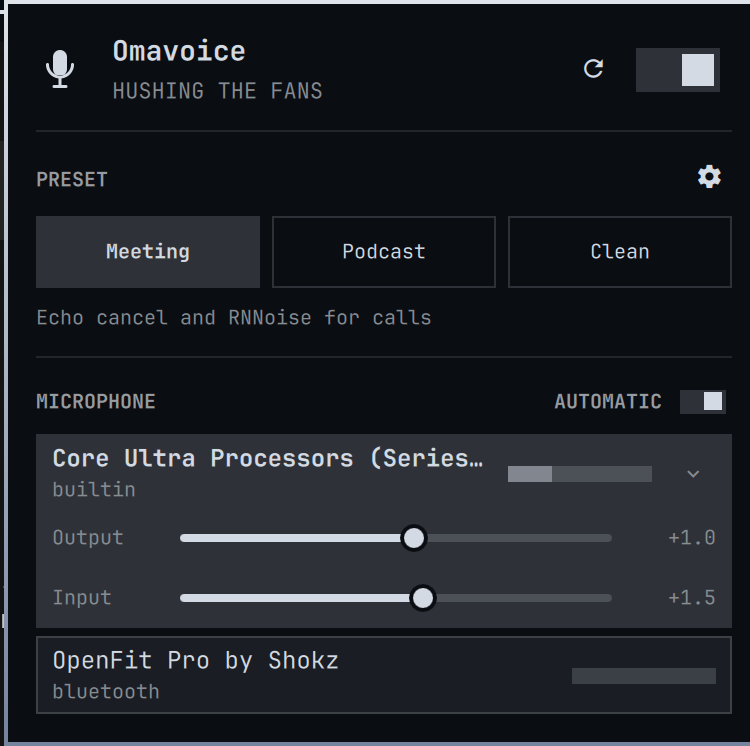
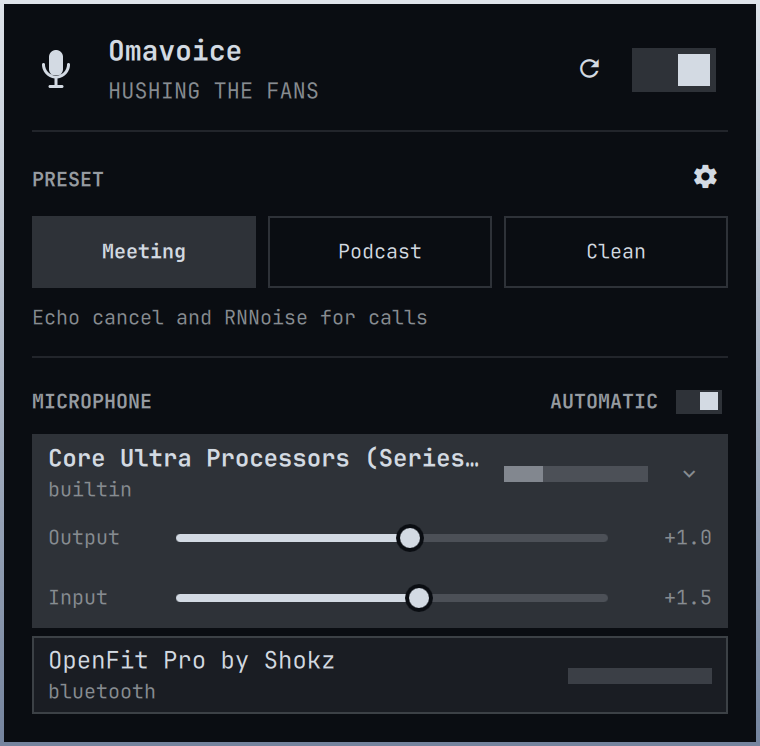
Tell the truth about meters, Voice looks, and the AEC sink.

diff --git a/README.md b/README.md
@@ -17,8 +17,8 @@
 </p>
 
 <p align="center">
-  <img src="preview.png" alt="Omavoice panel: Meeting, Podcast, Clean, Level on the selected mic" width="380">
-  <img src="docs/preview-tune.png" alt="Preset tuning: engine picker, Softer / Balanced / Stronger" width="380">
+  <img src="preview.png" alt="Omavoice panel: Meeting, Podcast, Clean, Output and Input on the selected mic" width="380">
+  <img src="docs/preview-tune.png" alt="Preset tuning: engine picker, Voice looks, Body / Presence / Air, Softer / Balanced / Stronger" width="380">
 </p>
 
 Pick **Omavoice** in Zoom, Google Meet, OBS, or a browser. The plugin sits under those apps as a PipeWire source, so you do not configure each one. USB mics attach themselves when you plug them in.
@@ -35,7 +35,7 @@ An independent [MIT](LICENSE)-licensed plugin by [GigaSolo](https://github.com/g
 | **Does** | Monitor-mode AEC + denoise + compressor | High-pass + denoise + compressor | High-pass only |
 | **Keeps** | Your voice on a laptop with speakers | Speech that sounds finished | Applause, keys, and music |
 
-Right-click the mark to toggle. Open the panel to switch presets and pick a microphone. Each mic row shows a live level; the selected row adds a hairline of what Omavoice is sending. The chevron on that row opens **Output** (what the call hears) and **Input** (this mic into Omavoice), −12…+12 dB, without restarting the host. PRESET tune picks the denoise engine, a Voice look (Neutral / Warm / Clear / Bright) with Body / Presence / Air knobs, and shows which engine is running. On Clean, Voice is visible and disabled.
+Right-click the mark to toggle. Open the panel to switch presets and pick a microphone. The selected mic row shows a live level and a hairline of what Omavoice is sending. Other rows stay quiet so a Bluetooth headset is not grabbed. The chevron on that row opens **Output** (what the call hears) and **Input** (this mic into Omavoice), −12…+12 dB, without restarting the host. PRESET tune picks the denoise engine, a Voice look (Neutral / Warm / Clear / Bright) with Body / Presence / Air knobs, and shows which engine is running. On Clean, Voice is visible and disabled.
 
 In the app itself, choose **Omavoice** as the microphone and turn *its* noise cancellation off. Two denoisers stacked sound hollow.
 
@@ -80,7 +80,7 @@ omarchy pkg aur add libdeep_filter_ladspa-bin
 | Action | How |
 | --- | --- |
 | Open or close the panel | Left-click the mark |
-| Tune a preset | Settings on PRESET: engine, Voice curve, then Softer / Balanced / Stronger |
+| Tune a preset | Settings on PRESET: engine, Voice look, then Softer / Balanced / Stronger |
 | Automatic microphone | AUTOMATIC on the MICROPHONE header |
 | Toggle Omavoice | Right-click, or `o` |
 | Reload processing | Reload next to on/off, or `r` |
@@ -108,7 +108,7 @@ The host is a dedicated PipeWire client, the same isolation Omarchy uses for spe
 
 ## While it's running
 
-Meeting echo cancel can use CPU while speakers play, even with no call. Disable the plugin to stop the host. Restore goes back to the microphone Omavoice replaced, not to Omavoice itself.
+Meeting echo cancel can use CPU while a call is capturing Omavoice, because it monitors the default sink (speakers or headphones). With no listener the host suspends. Disable the plugin to stop it. Restore goes back to the microphone Omavoice replaced, not to Omavoice itself.
 
 ## Update and remove
 

diff --git a/SECURITY.md b/SECURITY.md
@@ -5,9 +5,9 @@ Omavoice runs unsandboxed inside `omarchy-shell`, like every Omarchy plugin.
 It:
 
 - Starts a user `pipewire -c` client from a **0600** config under `$XDG_RUNTIME_DIR/omavoice/host.<pid>.conf`. `--target` must be a PipeWire `node.name` matching `[A-Za-z0-9._:-]+`.
-- Meeting echo cancel uses `monitor.mode`, so it can read the session default sink (speakers or headphones) while that graph is running.
+- Meeting echo cancel uses `monitor.mode`, so it can read the session **default sink** — speakers or Bluetooth headphones — while a real client is capturing Omavoice. The panel hold and Quickshell peak meters do not count. With no listener, those monitor links are dropped.
 - While the panel is open, starts a silent `pw-cat` capture of `omavoice` so the After meter can move. That hold is named `omavoice.meter.hold` and stops when the panel closes.
-- Calls `omarchy-audio-input-set-default` to make `omavoice` the default mic, and restores the last real capture (`previousAudioSource`) when disabled. It never stores `omavoice` as that previous source.
+- Calls `omarchy-audio-input-set-default` to make `omavoice` the default mic, and restores the pinned capture (else `previousAudioSource`) when disabled. It never stores `omavoice` as that previous source.
 - Reads PipeWire node names already visible to the session.
 - Does not use the network.
 - Does not run as root.

diff --git a/ROADMAP.md b/ROADMAP.md
@@ -33,7 +33,7 @@ Ship in this order. Each row is one PR.
 
 | Bite | Issue | Why this size |
 | --- | --- | --- |
-| Voice EQ looks | #7 | Neutral / Warm / Clear / Bright via builtin biquads. No new package. Off on Clean. **This cut (`feat/0.3-voice-eq`).** |
+| Voice EQ looks | #7 | Neutral / Warm / Clear / Bright via builtin biquads. No new package. Visible and disabled on Clean. **This cut (`feat/0.3-voice-eq`).** |
 | Three-band trim | #8 | Body / Presence / Air on the existing tune page. Only after named curves. **This cut.** |
 | NVIDIA engine | #9 | probe Tensor GPU + AFX or linux-broadcast, then `engine = nvidia`. Do not vendor NGC blobs. Later. |
 | Speex light engine | #10 | only if a filter-chain wrapper is cheap on Omarchy. No LADSPA wrapper on Omarchy yet. Later. |
